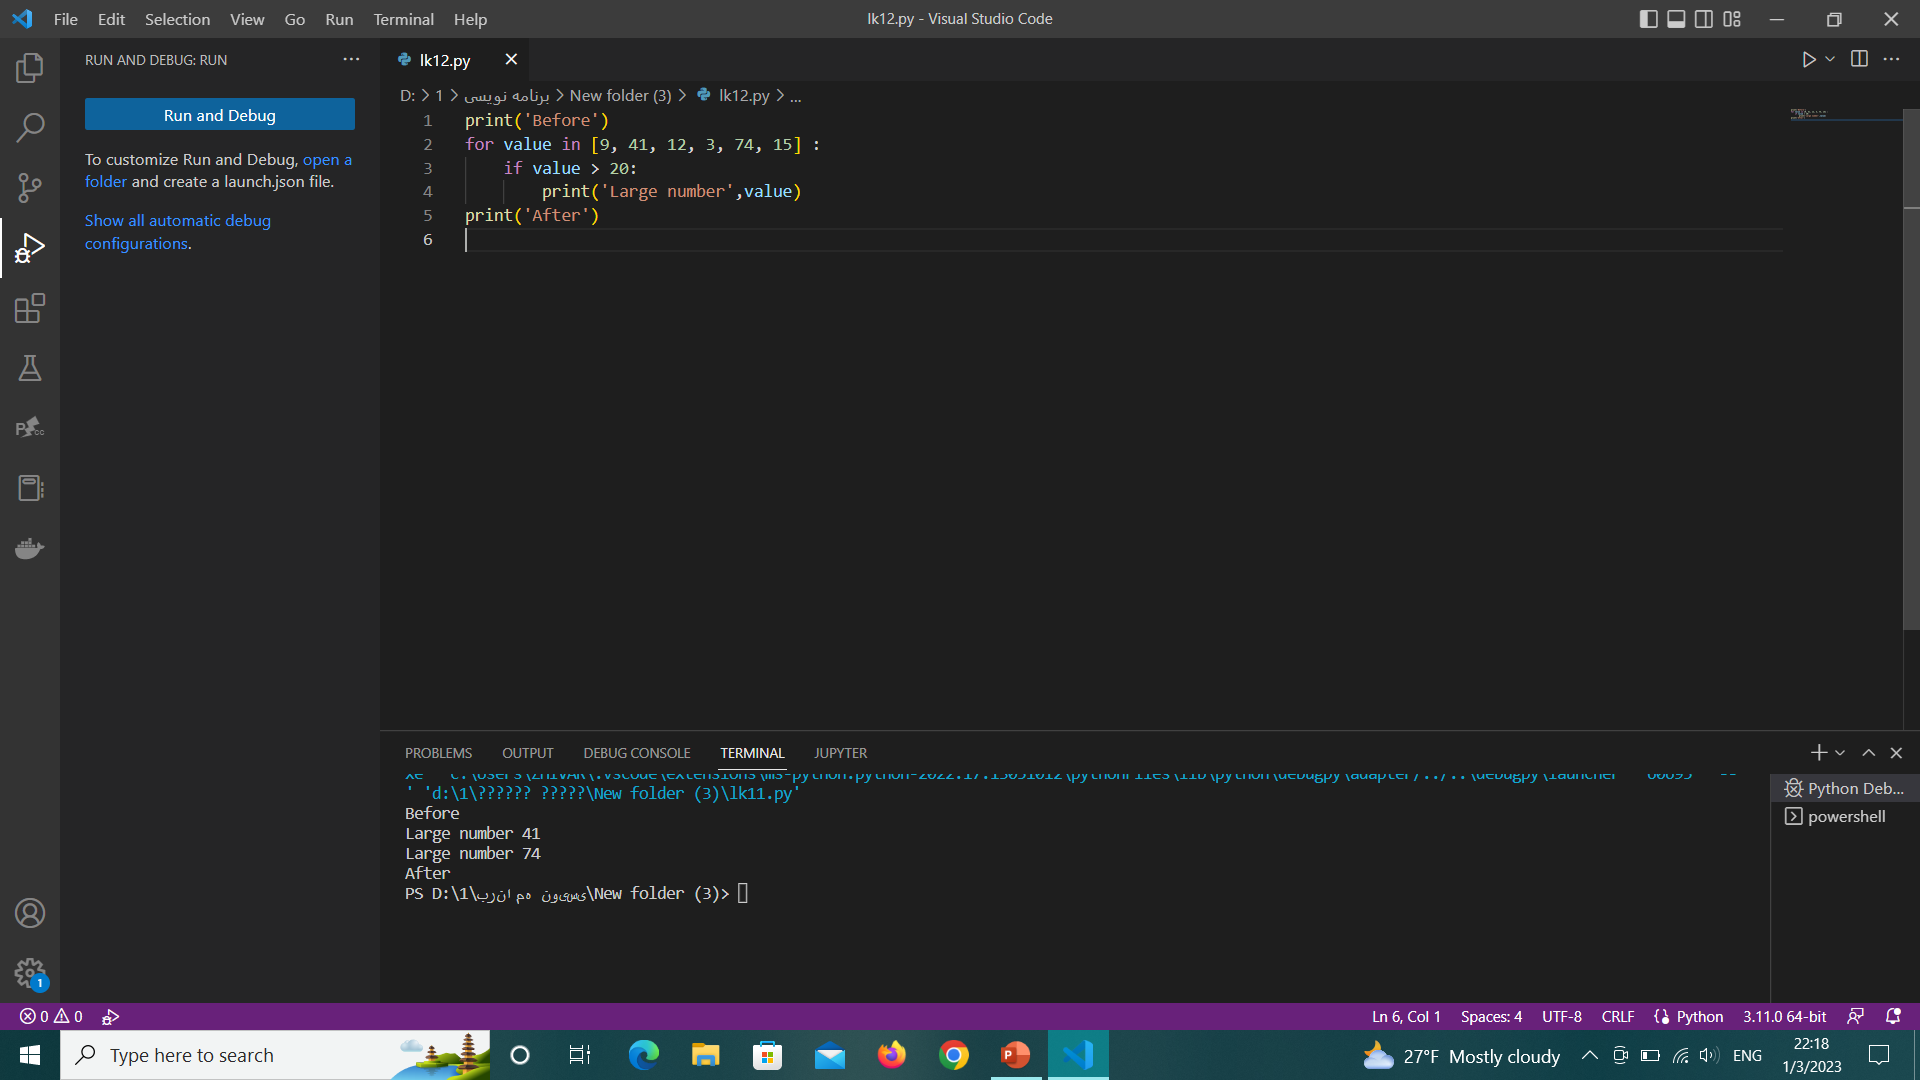
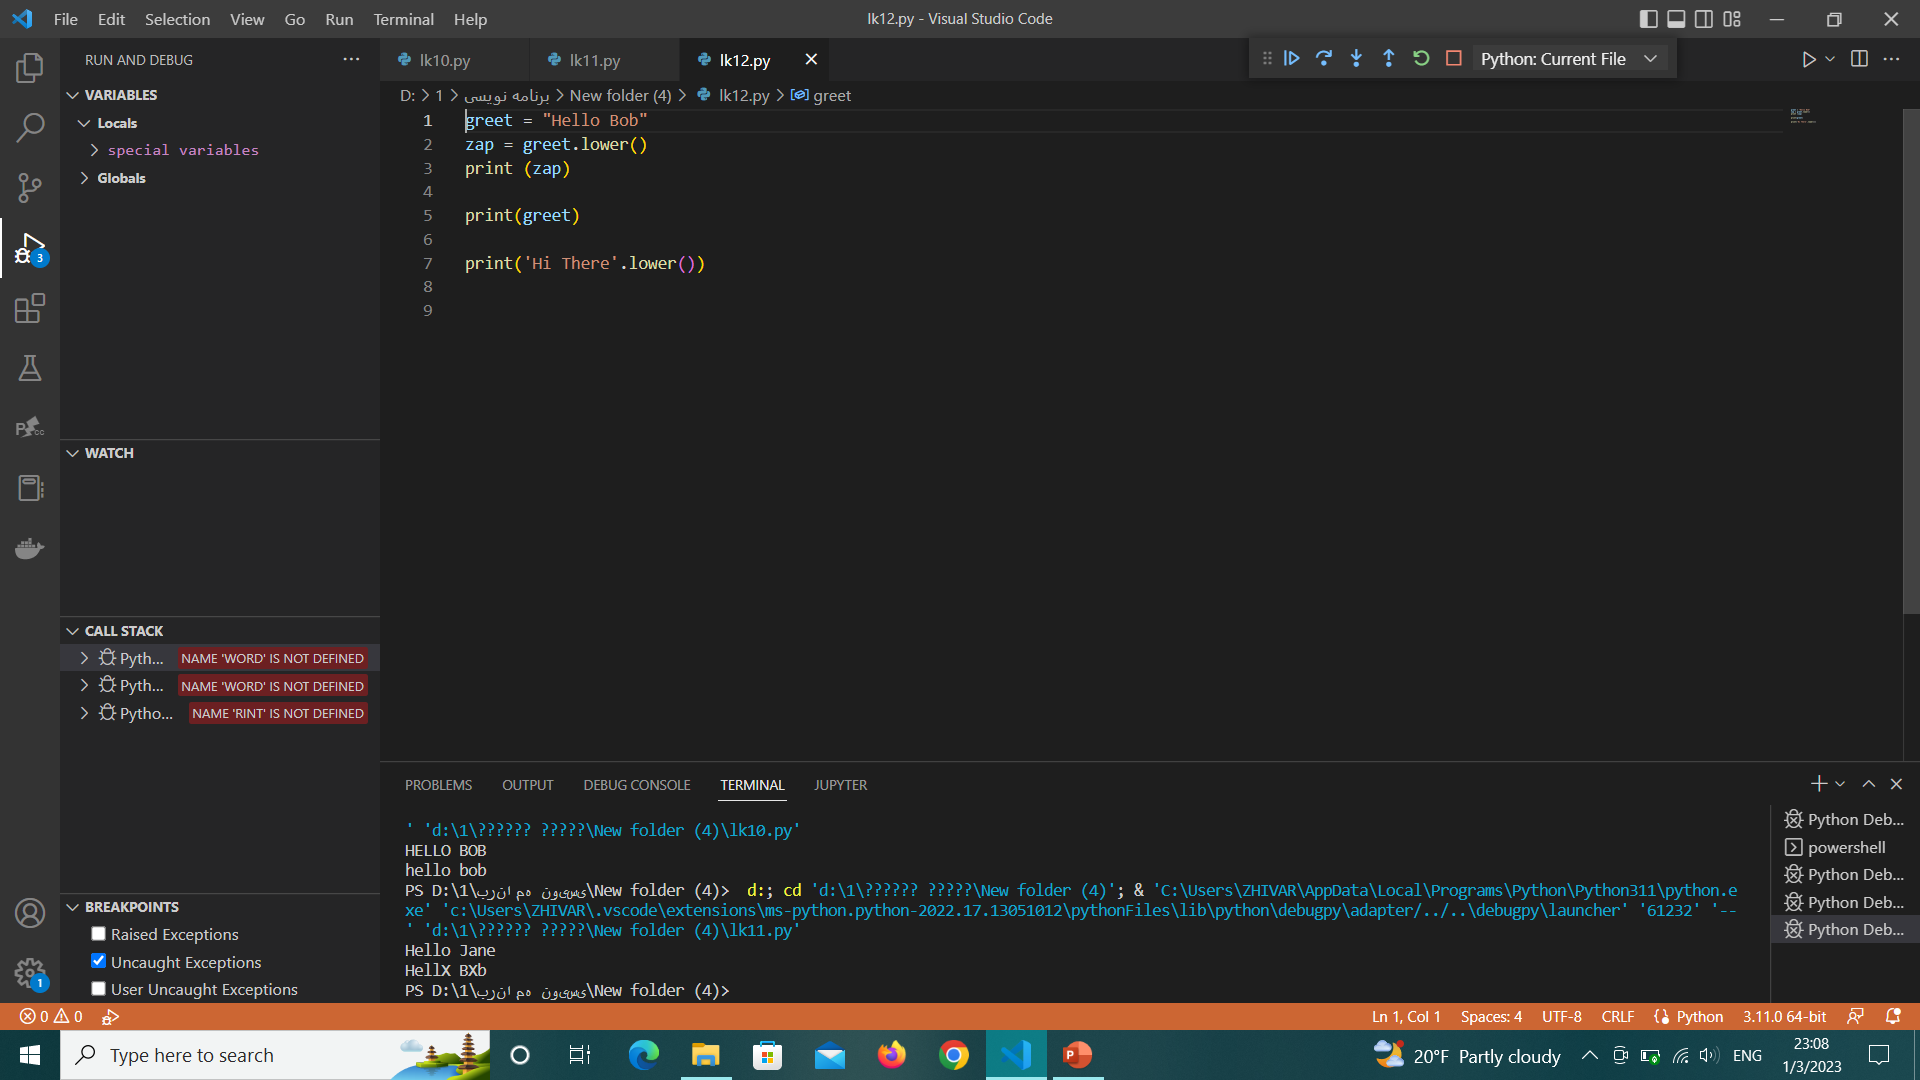
Add files via upload

diff --git a/lk12.py b/lk12.py
@@ -1,7 +1,10 @@
-found = False
-print('Before', found)
-for value in [9, 41, 12, 3, 74, 15] : 
-   if value == 3 :
-       found = True
-   print(found, value)
-print('After', found)
+data = 'From stephen.marquard@uct.ac.za Sat Jan  5 09:14:16 2008'
+atpos = data.find('@')
+print(atpos)
+
+sppos = data.find(' ',atpos)
+print(sppos)
+
+host = data[atpos+1 : sppos]
+print(host)
+

diff --git a/lk13.py b/lk13.py
@@ -1,8 +1,8 @@
-largest_so_far = -1
-print('Before', largest_so_far)
-for the_num in [9, 41, 12, 3, 74, 15] :
-   if the_num > largest_so_far :
-      largest_so_far = the_num
-   print(largest_so_far, the_num)
+greet = "Hello Bob"
+zap = greet.lower()
+print (zap)
 
-print('After', largest_so_far)
+print(greet)
+
+print('Hi There'.lower())
+

diff --git a/lk7.py b/lk7.py
@@ -1,8 +1,8 @@
-largest_so_far = -1
-print('Before', largest_so_far)
-for the_num in [9, 41, 12, 3, 74, 15] :
-   if the_num > largest_so_far :
-      largest_so_far = the_num
-   print(largest_so_far, the_num)
+a = 'Hello'
+b = a + 'There'
+print(b)
 
-print('After', largest_so_far)
+c = a + ' ' + 'There'
+print(c)
+
+

diff --git a/lk10.py b/lk10.py
@@ -1,8 +1,7 @@
-count = 0
-sum = 0
-print('Before', count, sum)
-for value in [9, 41, 12, 3, 74, 15] :
-    count = count + 1
-    sum = sum + value
-    print(count, sum, value)
-print('After', count, sum, sum / count)
+greet = 'Hello Bob'
+nnn = greet.upper()
+print(nnn)
+
+www = greet.lower()
+print(www)
+

diff --git a/lk8.py b/lk8.py
@@ -1,6 +1,9 @@
-zork = 0
-print('Before', zork)
-for thing in [9, 41, 12, 3, 74, 15] :
-    zork = zork + 1
-    print(zork, thing)
-print('After', zork)
+fruit = 'banana'
+'n' in fruit
+
+'m' in fruit
+
+'nan' in fruit
+
+if 'a' in fruit :
+    print('Found it!')

diff --git a/lk11.py b/lk11.py
@@ -1,5 +1,7 @@
-print('Before')
-for value in [9, 41, 12, 3, 74, 15] :
-    if value > 20:
- 	    print('Large number',value)
-print('After')
+greet = 'Hello Bob'
+nstr = greet.replace('Bob','Jane')
+print(nstr)
+
+nstr = greet.replace('o','X')
+print(nstr)
+ 

diff --git a/lk9.py b/lk9.py
@@ -1,6 +1,8 @@
-zork = 0
-print('Before', zork)
-for thing in [9, 41, 12, 3, 74, 15] :
-    zork = zork + thing
-    print(zork, thing)
-print('After', zork)
+greet = "Hello Bob"
+zap = greet.lower()
+print (zap)
+
+print(greet)
+
+print('Hi There'.lower())
+

diff --git a/lk2.py b/lk2.py
@@ -1,6 +1,6 @@
-while True:
-    line = input('> ')
-    if line == 'done' :
-        break
-    print(line)
-print('Done!')
+fruit = 'banana'
+index = 0
+while index < len(fruit): 
+    letter = fruit[index]
+    print(index, letter)
+    index = index + 1

diff --git a/lk4.py b/lk4.py
@@ -1,8 +1,6 @@
-Program:
-
-n = 5
-while n > 0 :
-    print (n)
-    n = n-1
-print ('Blastoff!')
-print (n)
+word = 'banana'
+count = 0
+for letter in word :
+    if letter == 'a' : 
+       count = count + 1
+print(count)

diff --git a/lk5.py b/lk5.py
@@ -1,4 +1,7 @@
-friends = ['Joseph', 'Glenn', 'Sally']
-for friend in friends : 
-   print('Happy New Year:', friend)
-print('Done!')
+s = 'Monty Python'
+print(s[0:4])
+
+print(s[6:7])
+
+print(s[6:20])
+

diff --git a/lk3.py b/lk3.py
@@ -1,6 +1,3 @@
-while True:
-    line = input('> ')
-    if line == 'done' : 
-       break
-    print(line)
-print('Done!')
+fruit = 'banana'
+for letter in fruit: 
+    print(letter)

diff --git a/lk6.py b/lk6.py
@@ -1,4 +1,6 @@
-print('Before')
-for thing in [9, 41, 12, 3, 74, 15] :
-     print(thing)
-print('After')
+s = 'Monty Python'
+print(s[:2])
+
+print(s[8:])
+
+print(s[:])
